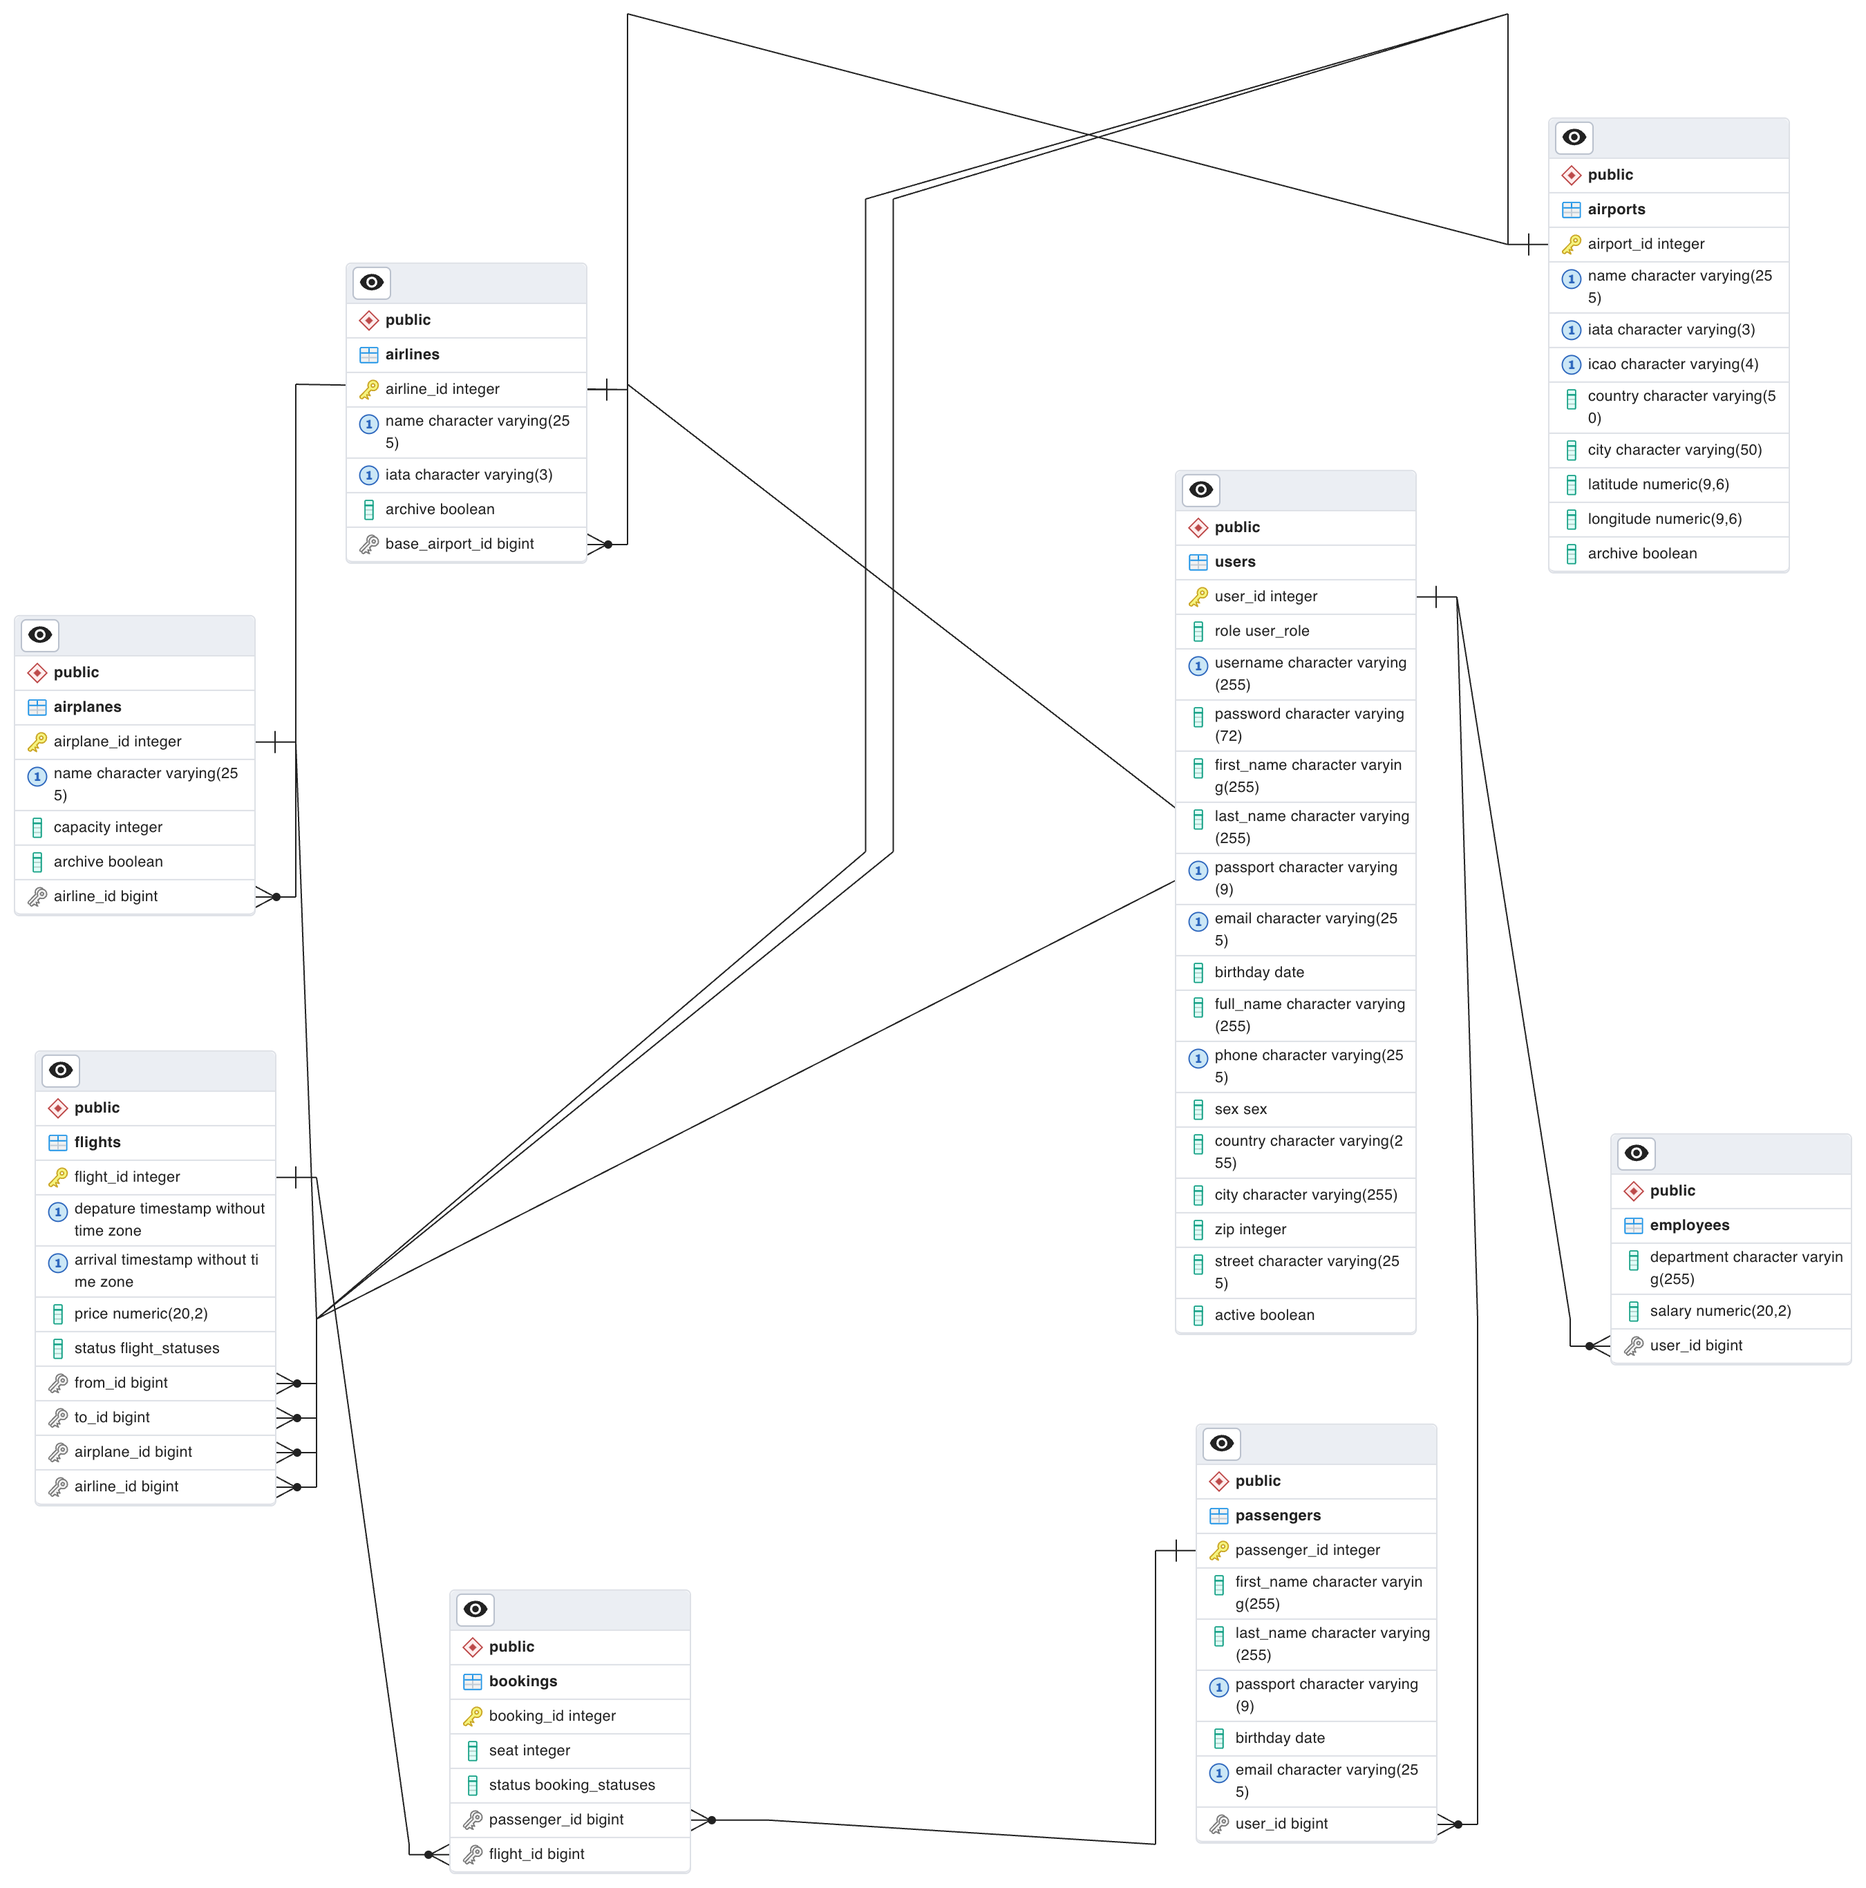
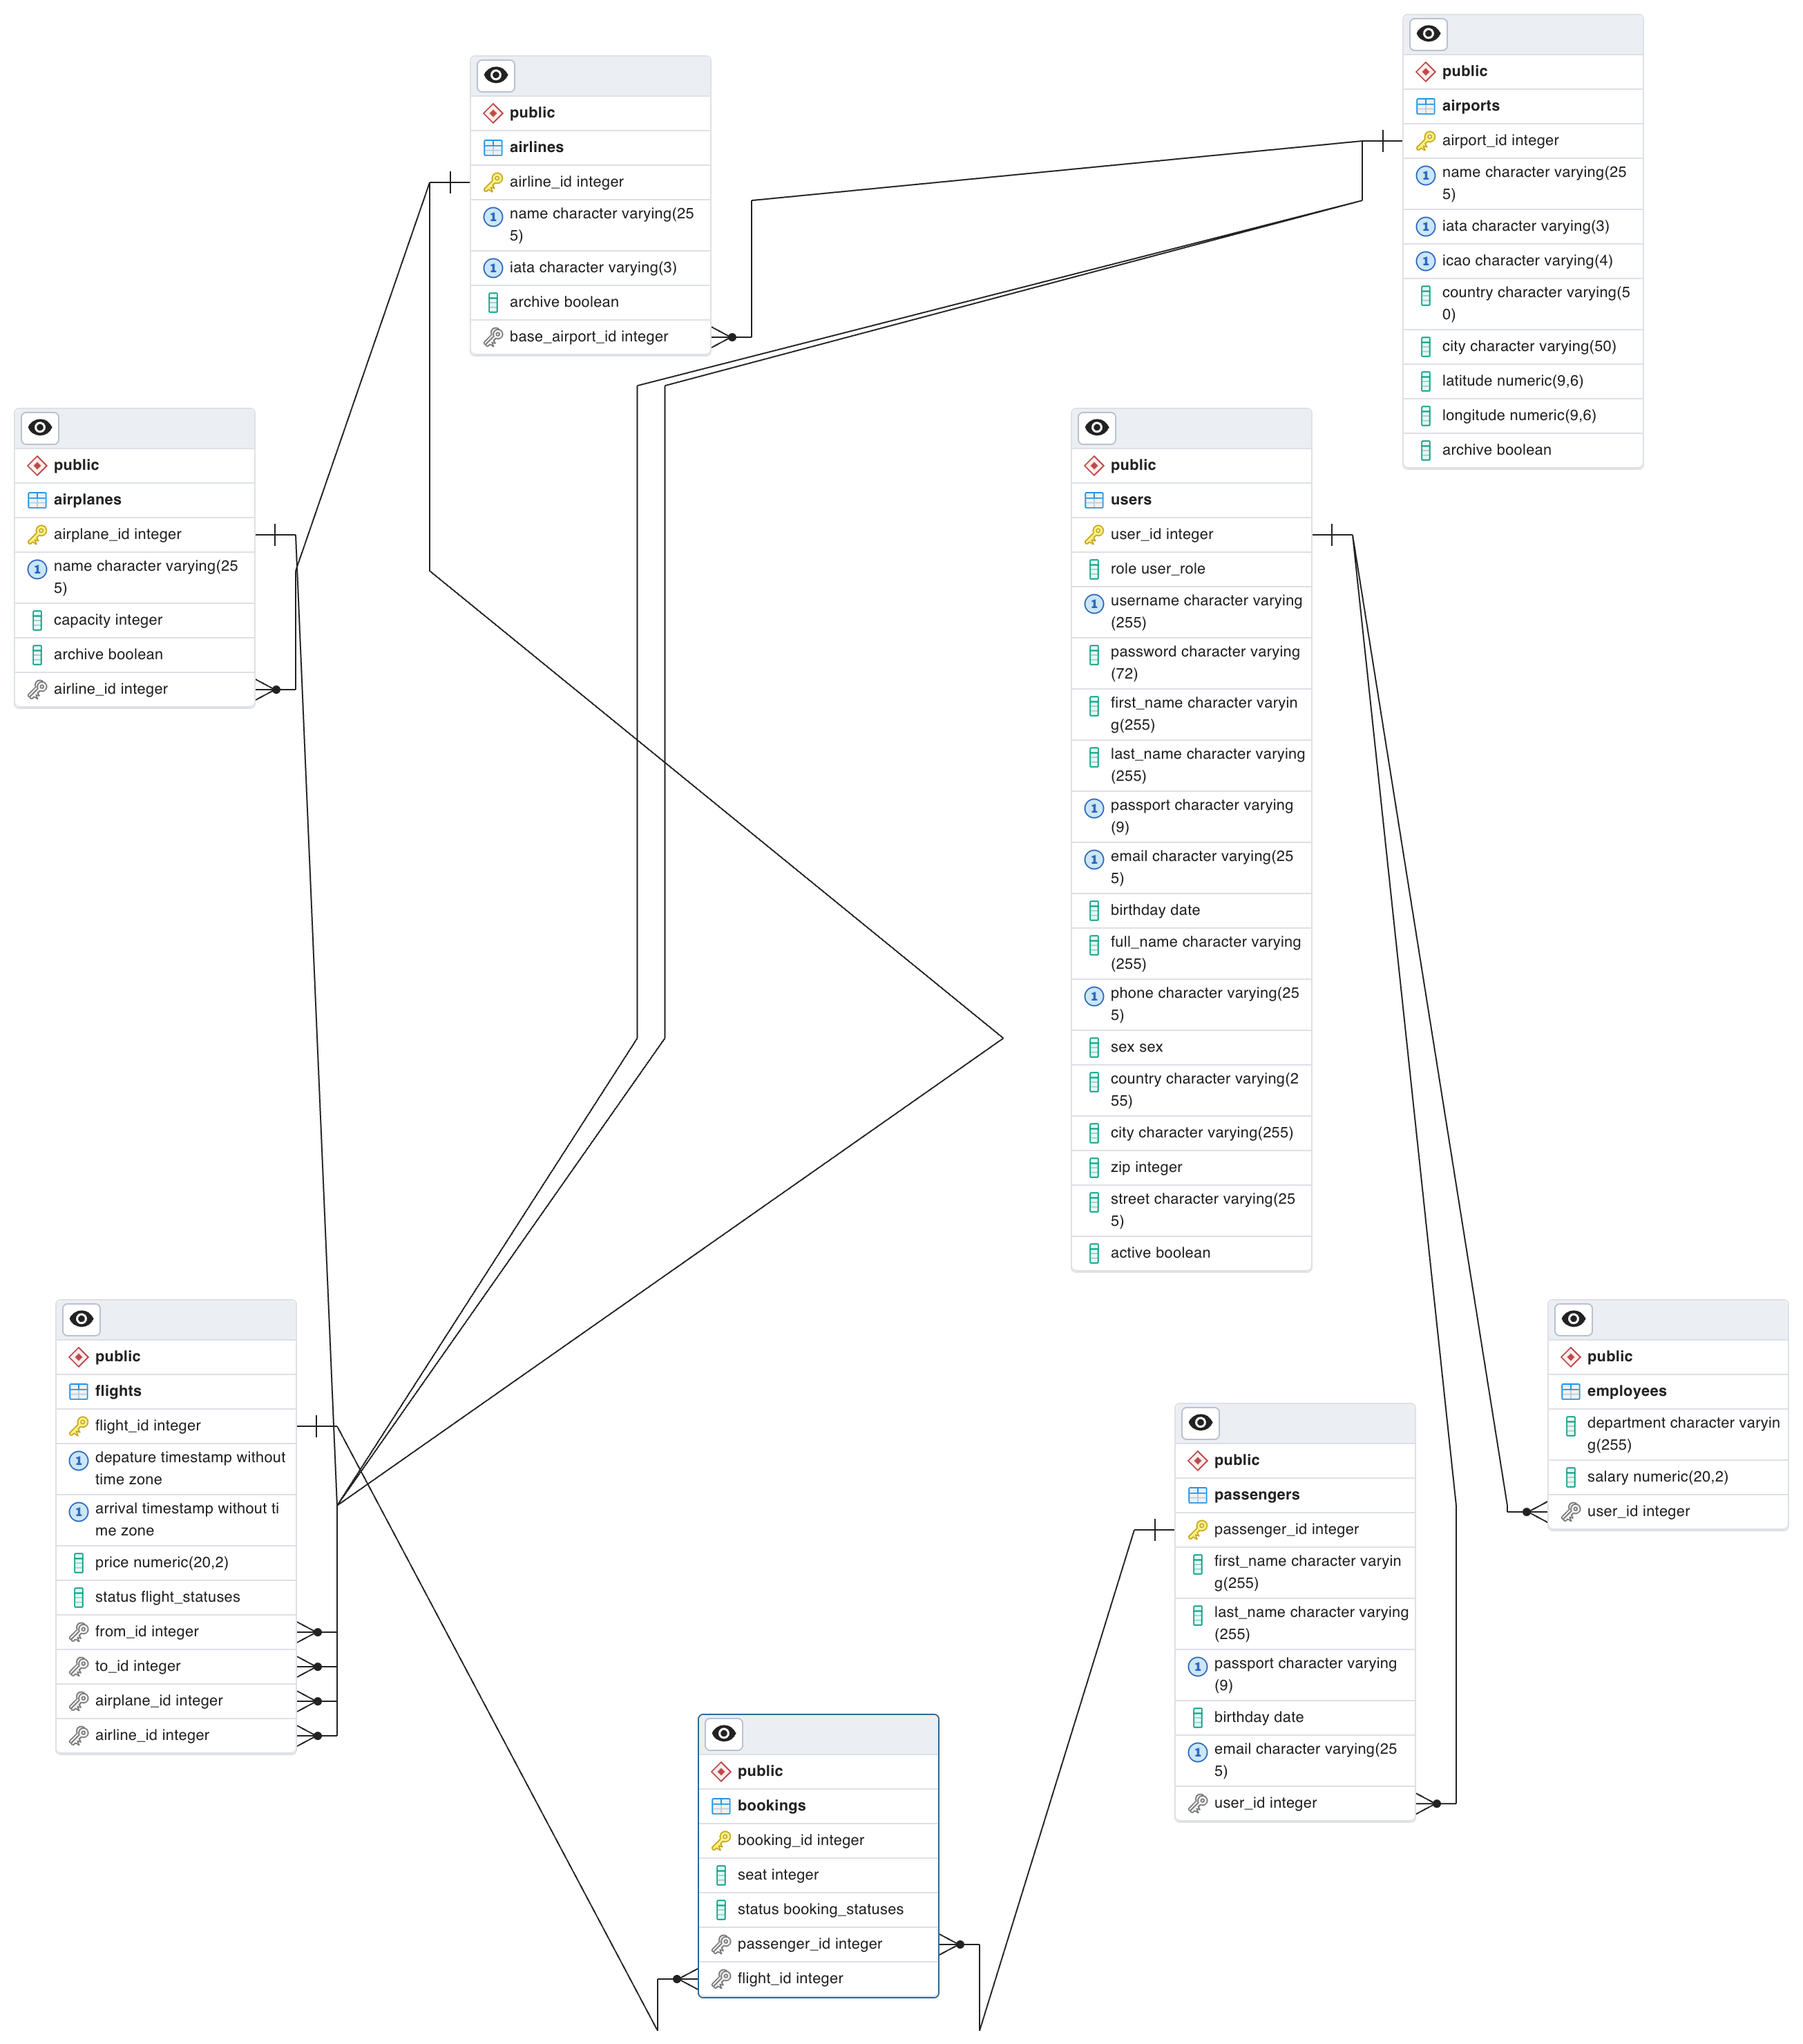
Refactor database schema

diff --git a/README.md b/README.md
@@ -2244,7 +2244,6 @@ PostgreSQL and PgAdmin
    | city | VARCHAR | | User city |
    | zip | INTEGER | | Zip code |
    | street | VARCHAR | | User's street |
-   | passenger_id | BIGINT | FK | Passenger ID: UNIQUE, NOT NULL |
 
 5. Passengers
 
